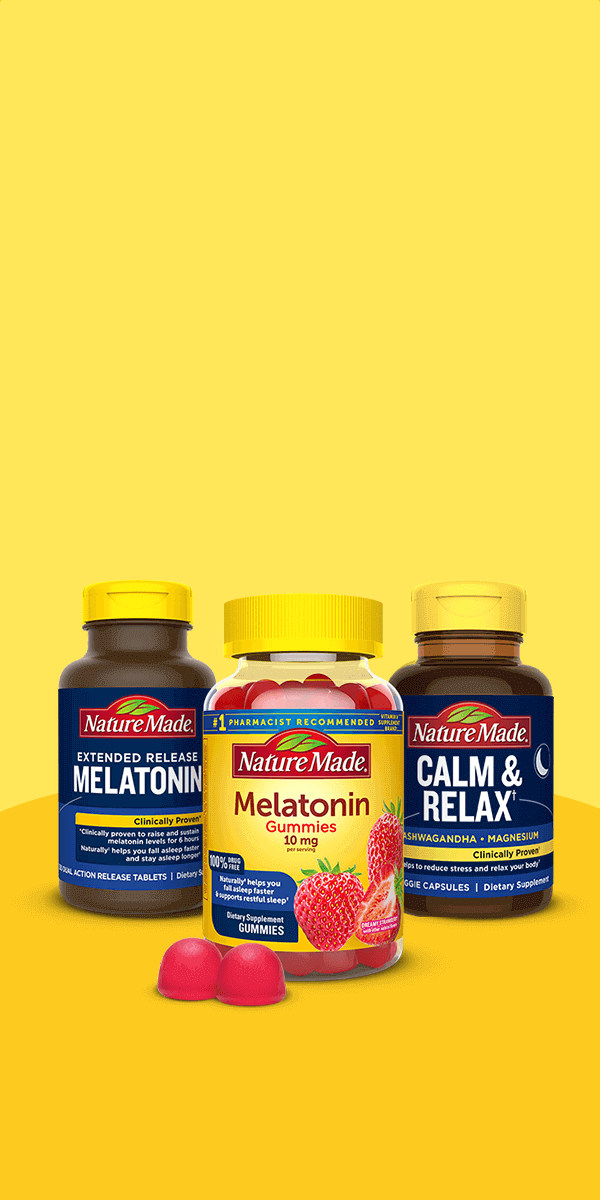
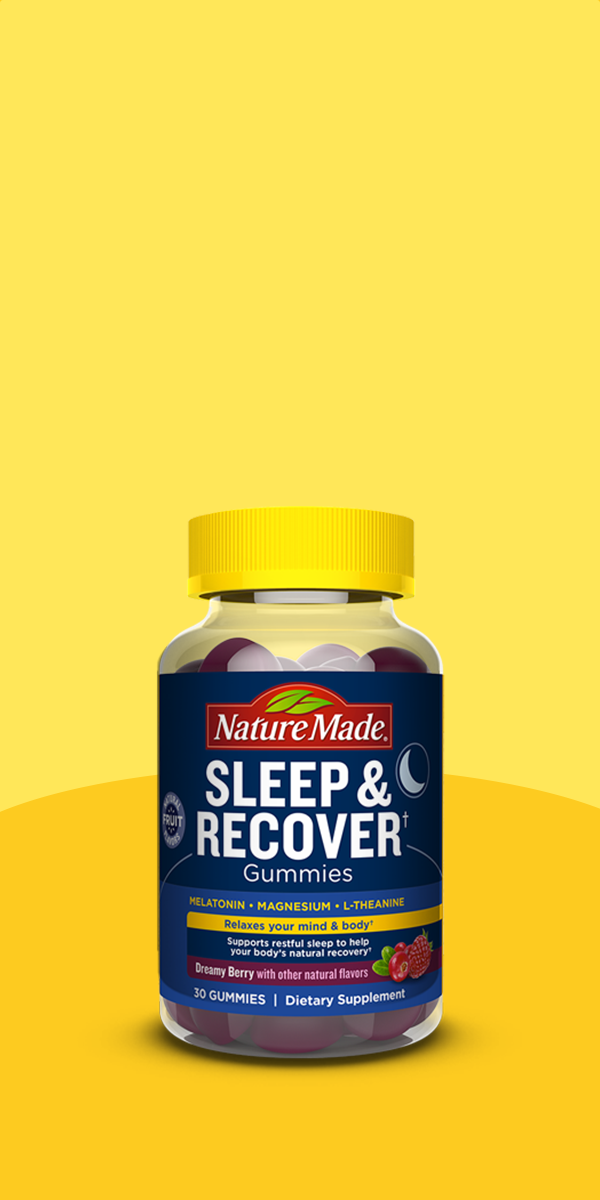
checkpoint wip

Changed region(s): [[0.06, 0.4008, 0.96, 0.8942]]

diff --git a/Win-the-Night-Graphic-Single-Product-300x600/index.html b/Win-the-Night-Graphic-Single-Product-300x600/index.html
@@ -121,6 +121,11 @@
       z-index: 3;
     }
 
+    .frame-3-bg {
+      opacity: 1;
+      z-index: 4;
+    }
+
     .frame.legal,
     .frame.cta-text {
       z-index: 5;
@@ -205,7 +210,7 @@
       var h4 = document.querySelector('.h4');
       var ctaText = document.querySelector('.cta-text');
       var ctaBtn = document.querySelector('.cta-btn');
-
+      var allProducts = document.querySelector('.frame-3-bg');
 
       // timelines
       var bannerTL;
@@ -224,7 +229,7 @@
           .to(h2, .75, { autoAlpha: 0, ease: Sine.easeOut }, '+=2')
           .to(h3, .75, { autoAlpha: 1, ease: Sine.easeOut }, '-=0')
           .to(h3, .75, { autoAlpha: 0, ease: Sine.easeOut }, '+=2')
-          .to([h4, slogan2, ctaText, ctaBtn], .75, { autoAlpha: 1, ease: Sine.easeOut }, '-=0')
+          .to([h4, slogan2, ctaText, ctaBtn, allProducts], .75, { autoAlpha: 1, ease: Sine.easeOut }, '-=0')
 
 
         // setTimeout(function () {
@@ -314,6 +319,7 @@
         <img src="./images/graphic_treatment_300x600_fr4_h1.png" class="frame h3">
         <img src="./images/graphic_treatment_300x600_fr5_h1.png" class="frame h4">
         <img src="./images/graphic_treatment_300x600_cta_text.png" class="frame cta-text">
+        <img src="./images/graphic_treatment_300x600_fr5_all_products.png" class="frame frame-3-bg">
         <div class="cta-btn"></div>
       </div>
 
